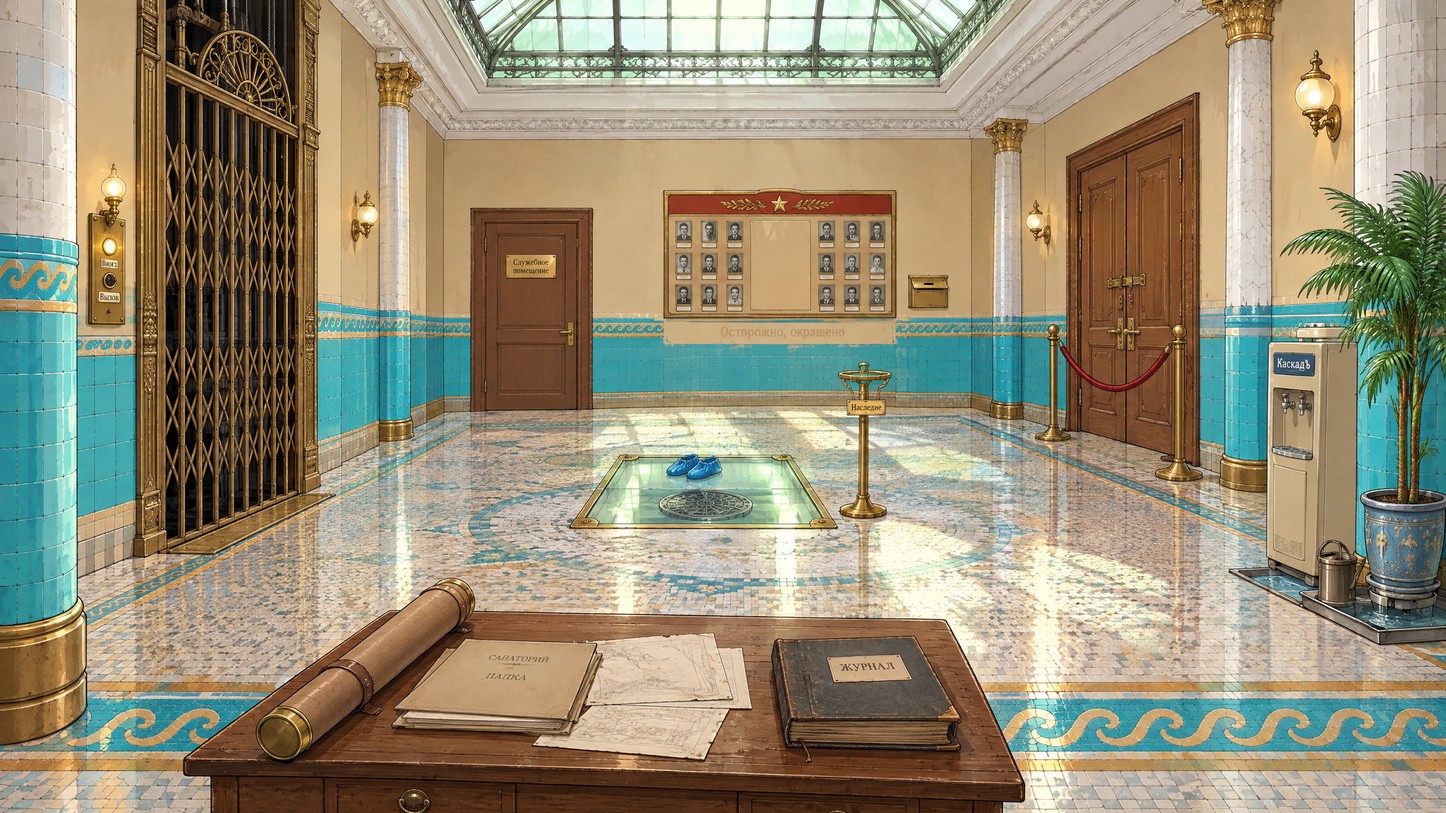
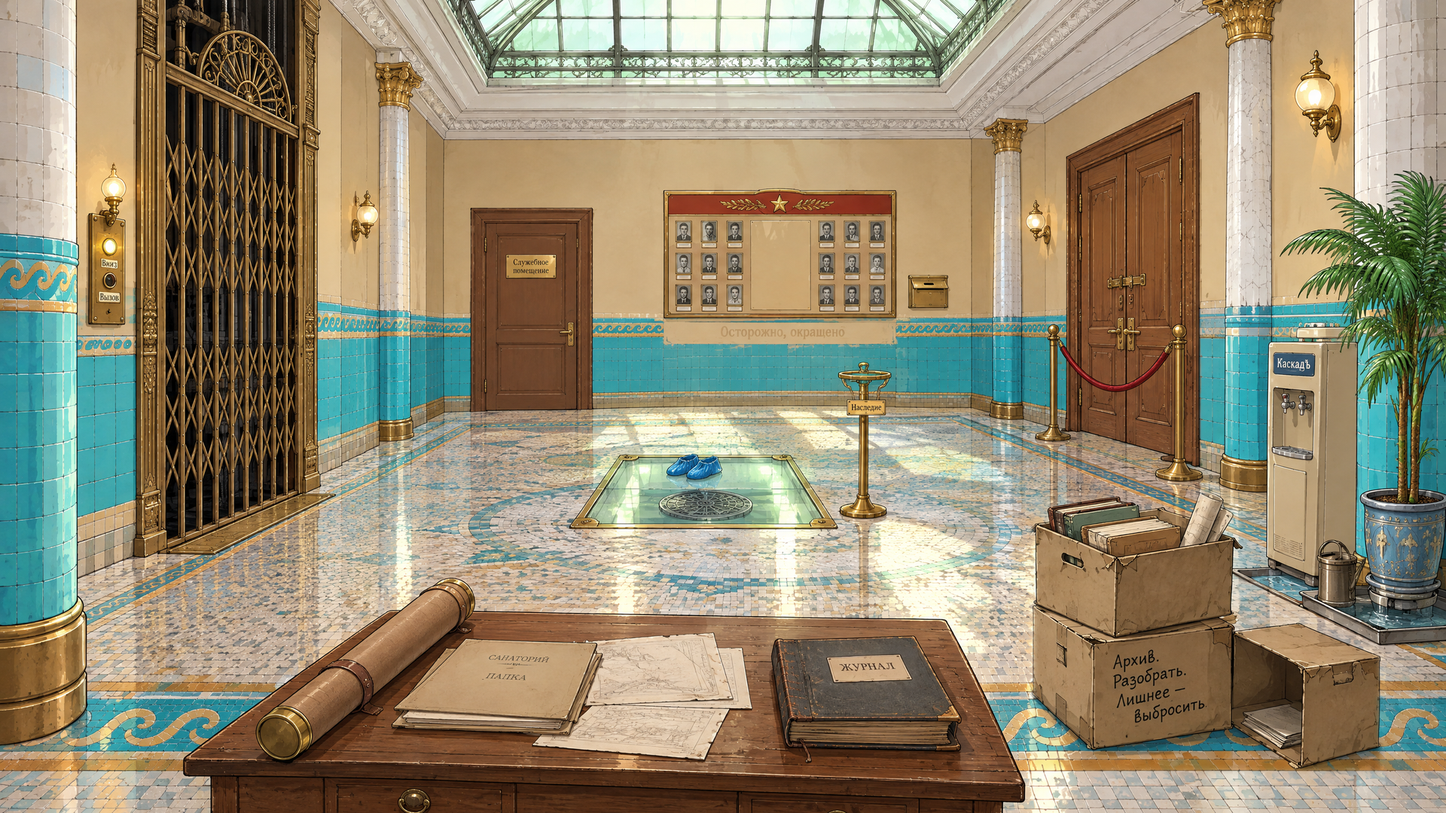
W4: архивные коробки справа от стола — объяснение, почему архив в зале
Claude-Session: https://claude.ai/code/session_01Bbq6Feu1G5NepL2mZVzLSv

Changed region(s): [[0.6875, 0.6111, 0.9688, 0.9472]]

diff --git a/docs/BJ3_ASSET_SPEC.md b/docs/BJ3_ASSET_SPEC.md
@@ -193,7 +193,7 @@
 
 ### 2.5. W4 — зал прекраснодушия · `room_w4.png`
 
-**Композиция** (план и камера утверждены автором 08.10.2026 — `docs/assets/w4_plan.png`, `docs/BJ3_GEOMETRY.md`). Камера — в проёме служебной двери из коридора (южная стена), 1,6 м, взгляд на север, широкий угол ~88°: **запад слева, восток справа**. Бывший зал водолечения: мозаичный пол с каймой (та же кайма — на фото «Четвергъ»), бирюзовый кафель, четыре колонны; три эпохи — водолечебница 1908, советский профилакторий, бежевые «улучшения». В центре пола — подсвеченное снизу стекло над люком источника (чугунный люк с кольцом под стеклом, по краям стекла — рамки-уголки); рядом стойка для бутылок с табличкой «Наследие» (пуста). Ближе к камере — архивный стол: тубус (закрыт), папка профилактория, толстый журнал, листы. **Слева (западная стена)** — **решётчатая дверь грузового лифта 1908 года**: за решёткой тёмная шахта с тросами (кабины нет), рядом латунный пост с кнопками «Вниз»/«Вызов» и лампой (горит), над решёткой — поле под трафарет; в мозаике у решётки выступает **латунный порожек**. **Вдали слева** — в глухой северной стене дверь с табличкой «Служебное помещение» (за стеной — лестничная клетка с винтовой лестницей), закрыта. **Окон в стенах зала нет** (ред. 2 плана, решение автора 08.10.2026: дверь не может вести на улицу и перекрывать окно): зал внутри здания, свет — сверху, через стеклянный фонарь в потолке 1908 года. **В глубине, справа от центра (северная стена)** — доска почёта: рамки с фото сотрудников (имена — чистые поля), бежевый свежеокрашенный прямоугольник, табличка «Осторожно, окрашено», рядом латунная щель с заслонкой. **Справа вдали (восточная стена, северная часть)** — **парадные двустворчатые двери из вестибюля**, заперты изнутри на засов, перед ними латунные столбики с бархатным канатом (решение автора 08.10.2026: гостевой вход есть, сегодня закрыт). Служебная дверь, через которую смотрит камера, — за спиной; у края кадра допустим край открытой внутрь створки.
+**Композиция** (план и камера утверждены автором 08.10.2026 — `docs/assets/w4_plan.png`, `docs/BJ3_GEOMETRY.md`). Камера — в проёме служебной двери из коридора (южная стена), 1,6 м, взгляд на север, широкий угол ~88°: **запад слева, восток справа**. Бывший зал водолечения: мозаичный пол с каймой (та же кайма — на фото «Четвергъ»), бирюзовый кафель, четыре колонны; три эпохи — водолечебница 1908, советский профилакторий, бежевые «улучшения». В центре пола — подсвеченное снизу стекло над люком источника (чугунный люк с кольцом под стеклом, по краям стекла — рамки-уголки); рядом стойка для бутылок с табличкой «Наследие» (пуста). Ближе к камере — архивный стол: тубус (закрыт), папка профилактория, толстый журнал, листы. **Почему стол в зале** (решение автора 08.10.2026): архив отеля выселили на время «плановых улучшений» и свалили в закрытый зал — справа от стола, на свободном полу, стопка картонных архивных коробок (не закрывает порожек лифта, кулер и пальму), на большой маркером «Архив. Разобрать. Лишнее — выбросить» (поэтому вместе лежат бумаги трёх эпох и свежее распоряжение о сокращении: дело сантехника сдано в архив). **Слева (западная стена)** — **решётчатая дверь грузового лифта 1908 года**: за решёткой тёмная шахта с тросами (кабины нет), рядом латунный пост с кнопками «Вниз»/«Вызов» и лампой (горит), над решёткой — поле под трафарет; в мозаике у решётки выступает **латунный порожек**. **Вдали слева** — в глухой северной стене дверь с табличкой «Служебное помещение» (за стеной — лестничная клетка с винтовой лестницей), закрыта. **Окон в стенах зала нет** (ред. 2 плана, решение автора 08.10.2026: дверь не может вести на улицу и перекрывать окно): зал внутри здания, свет — сверху, через стеклянный фонарь в потолке 1908 года. **В глубине, справа от центра (северная стена)** — доска почёта: рамки с фото сотрудников (имена — чистые поля), бежевый свежеокрашенный прямоугольник, табличка «Осторожно, окрашено», рядом латунная щель с заслонкой. **Справа вдали (восточная стена, северная часть)** — **парадные двустворчатые двери из вестибюля**, заперты изнутри на засов, перед ними латунные столбики с бархатным канатом (решение автора 08.10.2026: гостевой вход есть, сегодня закрыт). Служебная дверь, через которую смотрит камера, — за спиной; у края кадра допустим край открытой внутрь створки.
 
 **Гэги W4** (выбор автора 08.10.2026): табличка «Осторожно, окрашено» сама закрашена бежевым, буквы едва проступают; на подсвеченном стекле над люком аккуратно стоит пара бахил; кулер «Каскадъ» без бутыли, пустой; искусственная пальма в кадке, под ней поддон с водой и лейка.
 

diff --git a/docs/BJ3_GEOMETRY.md b/docs/BJ3_GEOMETRY.md
@@ -46,5 +46,5 @@
 
 Зал — к западу от вестибюля; служебный коридор — вдоль его южной стены. Вход — служебная дверь в южной стене (западнее середины), открывается внутрь; парадные двери из вестибюля — в восточной стене, северная часть (заперты, канат).
 Камера: в проёме служебной двери, 1,6 м, взгляд **на север**, широкий угол ~88° → в кадре **запад слева, восток справа**.
-В кадре: **слева** (западная стена, северная половина) — решётка лифта 1908 с постом «Вниз/Вызов», порожек в мозаике (в начале — закрыта зеркалом, состояние `st_w4_mirror`); **вдали слева** — дверь «Служебное помещение» в глухой северной стене (за стеной — лестничная клетка, винтовая лестница вниз); **в центре** — подсвеченное стекло над люком и стойка «Наследие»; **ближе к камере** — архивный стол; **в глубине справа от центра** (северная стена) — доска почёта с латунной щелью; **справа вдали** (восточная стена) — парадные двери с канатом на столбиках; четыре колонны (две ближние — у краёв кадра). Пол — мозаика с каймой (только здесь).
+В кадре: **слева** (западная стена, северная половина) — решётка лифта 1908 с постом «Вниз/Вызов», порожек в мозаике (в начале — закрыта зеркалом, состояние `st_w4_mirror`); **вдали слева** — дверь «Служебное помещение» в глухой северной стене (за стеной — лестничная клетка, винтовая лестница вниз); **в центре** — подсвеченное стекло над люком и стойка «Наследие»; **ближе к камере** — архивный стол, справа от него на полу — стопка архивных коробок «Архив. Разобрать. Лишнее — выбросить» (архив выселен на время ремонта — решение автора 08.10.2026); **в глубине справа от центра** (северная стена) — доска почёта с латунной щелью; **справа вдали** (восточная стена) — парадные двери с канатом на столбиках; четыре колонны (две ближние — у краёв кадра). Пол — мозаика с каймой (только здесь).
 Гэги W4 (выбор автора 08.10.2026): «Осторожно, окрашено» закрашена бежевым; бахилы на стекле над люком; пустой кулер «Каскадъ» без бутыли; искусственная пальма в кадке с поддоном воды и лейкой.
